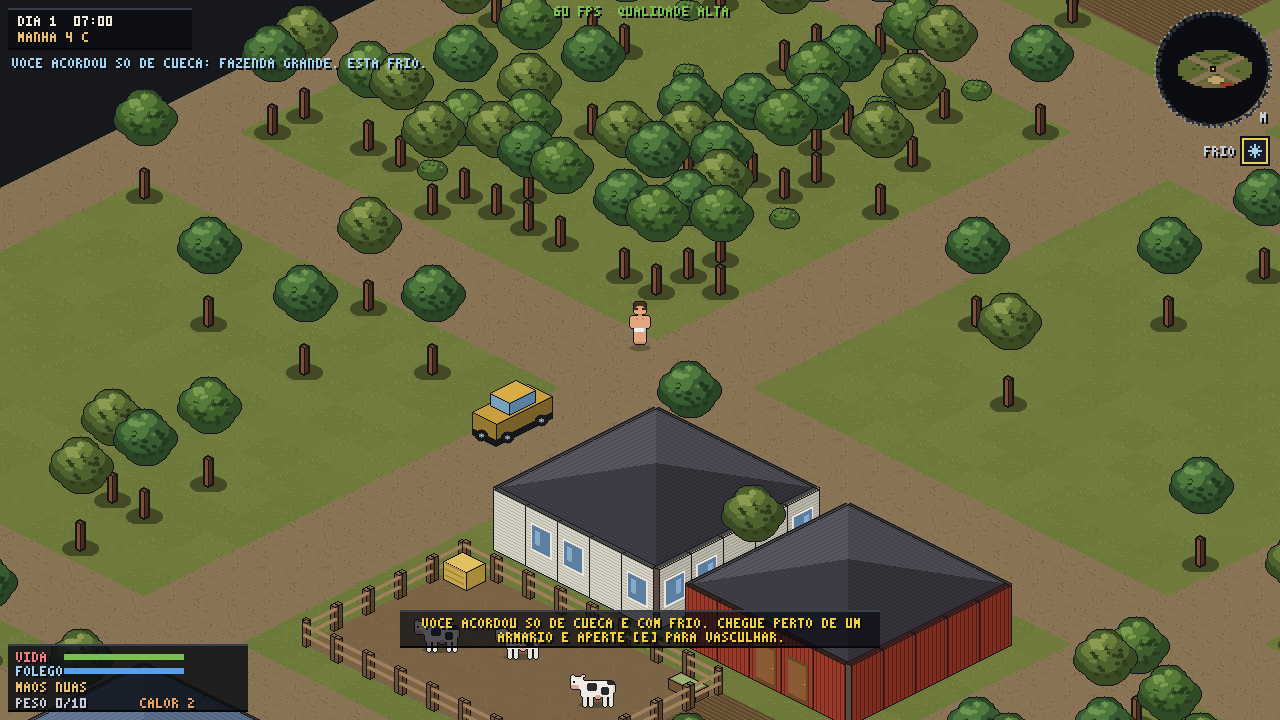
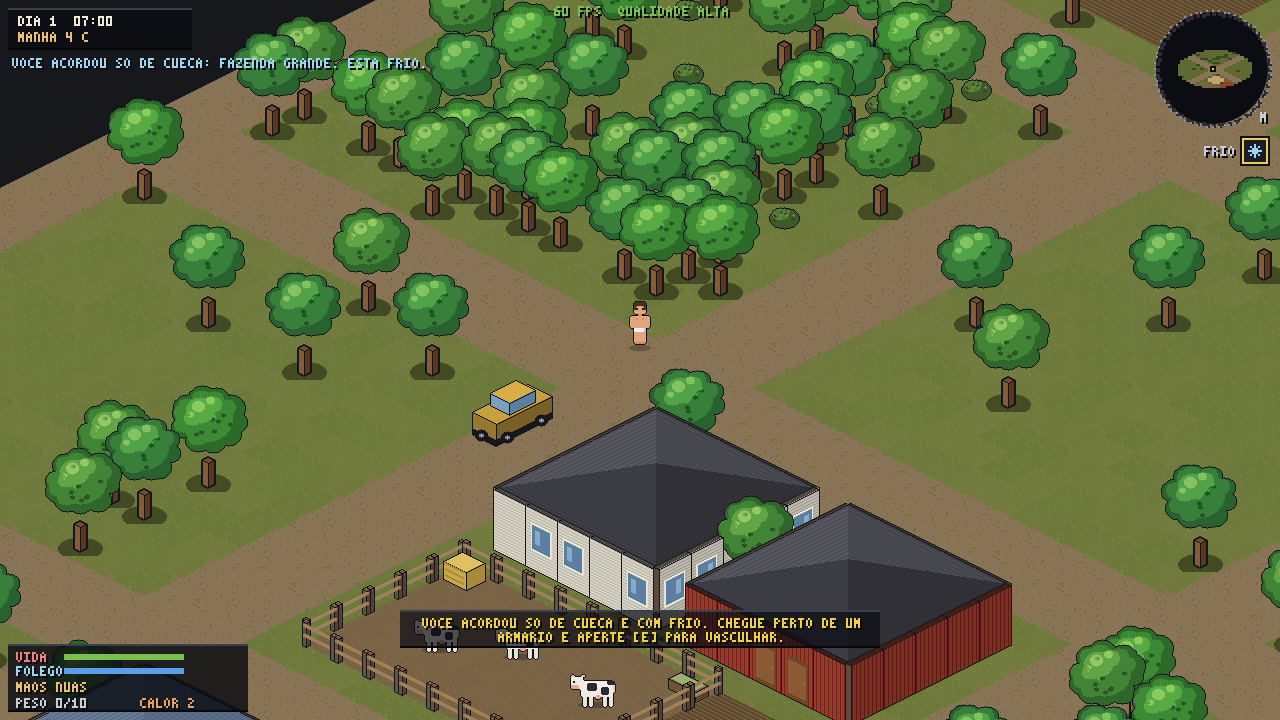
feat: trees drawn like the 🌳 emoji
Every tree now has one big round crown with bumps at the edge and a
short, thick trunk. The greens are brighter, with a shadow low on the
right and light high on the left. The pine variant is gone.

Story: design/game-brief.md (user words of 2026-11-17)

Claude-Session: https://claude.ai/code/session_013o8aeiMDFZKMeVU5bPXT3P

diff --git a/prototypes/zona-morta/js/art.js b/prototypes/zona-morta/js/art.js
@@ -311,37 +311,27 @@ function furnImg(type, v = 0, st = '') {
     case 'remedios': pbox(x, P, 0.2, 0.3, 0.6, 0.4, 20, 0, '#f0f2f4', '#dce0e4', '#c0c6cc'); faceS(x, P, 0.2, 0.7, 0.22, 0.38, 10, 15, '#d83838'); faceS(x, P, 0.2, 0.7, 0.27, 0.33, 8, 17, '#d83838'); break;
     case 'bomba': pbox(x, P, 0.3, 0.3, 0.4, 0.4, 22, 0, '#e8e8e0', '#c9302c', '#9a2420'); faceS(x, P, 0.3, 0.7, 0.08, 0.32, 14, 19, '#22242a'); faceS(x, P, 0.3, 0.7, 0.1, 0.3, 15, 18, st === 'on' ? '#7ae87a' : '#3a5a3a'); { const p = P(0.7, 0.55, 12); pline(x, p[0], p[1], p[0] + 4 * AR, p[1] + 6 * AR, '#22242a'); } break;
     case 'arvore': {
-      // a broadleaf (3 greens) or, one in four, a pine; a trunk you can see, light from the top left
+      // like the 🌳 emoji: one big round leafy crown, cloud-bumped at the edge, on a short thick trunk
       c = mkCanvas(64 * AR, 96 * AR); x = c.getContext('2d'); ox = 32 * AR; oy = 84 * AR; const Q = L(32 * AR, 84 * AR);
-      const pine = v % 4 === 3;
-      pbox(x, Q, 0.44, 0.44, 0.12, 0.12, pine ? 12 : 13, 0, '#6a4428', '#7a5232', '#4a2e1a');
-      const blob = (bx, by, r, col) => pdisc(x, Math.round(bx * AR), Math.round(by * AR), Math.round(r * AR), col, 0.85);
-      const dots = (n, col, cx0, cy0, rr, r0 = 1.2, seed = 7) => { for (let q = 0; q < n; q++) { const a = hash2(q, v, seed) * Math.PI * 2, d = Math.sqrt(hash2(v, q, seed + 2)) * rr; pdisc(x, Math.round((cx0 + Math.cos(a) * d) * AR), Math.round((cy0 + Math.sin(a) * d * 0.8) * AR), Math.round(r0 * AR), col); } };
-      if (pine) {
-        const g = ['#24402a', '#2f5434', '#447048'], top = 84 - 50;
-        // four stacked tiers, each a little cone: dark right half, light left edge
-        for (let t = 0; t < 4; t++) {
-          const ty = top + t * 8, hh = 13, w0 = 6 + t * 2.8;
-          for (let yy = 0; yy <= hh; yy++) {
-            const w = Math.round((yy / hh) * w0 * AR), y2 = (ty + yy) * AR;
-            prect(x, 32 * AR - w, y2, w, AR, g[1]); prect(x, 32 * AR, y2, w + 1, AR, g[0]);
-            if (w > 2) prect(x, 32 * AR - w, y2, Math.max(AR, Math.round(w * 0.35)), AR, g[2]);
-          }
-        }
-        dots(8, '#5a8858', 29, top + 20, 6, 0.6, 3);
-      } else {
-        const gr = [['#2f4a24', '#3e5e2c', '#577a38', '#7a9a4c'], ['#3a4a22', '#4e6230', '#6a7e3c', '#8c9c52'], ['#2a4426', '#385a30', '#4e783c', '#6e9650']][v % 3];
-        const cy = 84 - 31 - (v % 2) * 2;
-        // shadow side (bottom right), body, lit side (top left), then leaf texture
-        blob(33, cy + 3, 12, gr[0]); blob(25, cy + 1, 8, gr[0]); blob(40, cy, 8, gr[0]); blob(32, cy - 7, 9, gr[0]);
-        blob(31, cy - 1, 10, gr[1]); blob(37, cy - 4, 7, gr[1]); blob(25, cy - 3, 7, gr[1]); blob(30, cy - 9, 6, gr[1]);
-        blob(28, cy - 5, 6, gr[2]); blob(34, cy - 9, 4, gr[2]); blob(24, cy - 4, 3.5, gr[2]);
-        blob(27, cy - 8, 2.5, gr[3]); blob(32, cy - 11, 1.5, gr[3]);
-        dots(22, shade(gr[0], 0.82), 34, cy + 2, 10, 1.2, 7); dots(16, gr[2], 29, cy - 4, 8, 1, 11); dots(8, gr[3], 28, cy - 7, 4, 0.8, 13);
-      }
+      const pine = false;
+      // trunk with a little fork into the crown
+      pbox(x, Q, 0.41, 0.41, 0.18, 0.18, 12, 0, '#7a4e2c', '#8a5a34', '#5a3820');
+      const disc = (bx, by, r, col) => pdisc(x, Math.round(bx * AR), Math.round(by * AR), Math.round(r * AR), col, 0.92);
+      const gr = [['#2c6a2a', '#3c8a34', '#58aa44', '#8acc5c'], ['#30662a', '#428436', '#62a446', '#94c862'], ['#28622e', '#38803a', '#52a24a', '#84c460']][v % 3];
+      const cx = 32 + (v % 2), cy = 84 - 24 - (v % 3);
+      // the crown: a round body plus a ring of bumps, darkest low on the right, lit high on the left
+      const bumps = 10, R = 13;
+      disc(cx, cy, R + 1, gr[0]);
+      for (let q = 0; q < bumps; q++) { const a = q / bumps * Math.PI * 2 + hash2(q, v, 5) * 0.4, rr = 5 + hash2(v, q, 6) * 2; disc(cx + Math.cos(a) * R, cy + Math.sin(a) * R * 0.85, rr, gr[0]); }
+      disc(cx - 1, cy - 1, R, gr[1]);
+      for (let q = 0; q < bumps; q++) { const a = q / bumps * Math.PI * 2 + hash2(q, v, 5) * 0.4; if (Math.cos(a) + Math.sin(a) > 0.6) continue; disc(cx - 1 + Math.cos(a) * (R - 1), cy - 1 + Math.sin(a) * (R - 1) * 0.85, 4.5, gr[1]); }
+      disc(cx - 4, cy - 5, 7, gr[2]); disc(cx + 2, cy - 8, 4.5, gr[2]); disc(cx - 8, cy - 1, 4, gr[2]);
+      disc(cx - 5, cy - 7, 3, gr[3]); disc(cx + 1, cy - 10, 2, gr[3]); disc(cx - 9, cy - 3, 1.5, gr[3]);
+      // a few leaf clumps for texture
+      for (let q = 0; q < 14; q++) { const a = hash2(q, v, 21) * Math.PI * 2, d = Math.sqrt(hash2(v, q, 23)) * (R - 2); const lx = cx + Math.cos(a) * d, ly = cy + Math.sin(a) * d * 0.85; disc(lx, ly, 1.2, Math.cos(a) + Math.sin(a) > 0 ? shade(gr[0], 0.85) : gr[2]); }
       outlineCanvas(c);
       // a soft round shadow under it, after the outline so it stays soft
-      x.globalCompositeOperation = 'destination-over'; x.globalAlpha = 0.22; pdisc(x, Q(0.5, 0.5, 0)[0], Q(0.5, 0.5, 0)[1], (pine ? 7 : 9) * AR, '#000000', 0.5); x.globalAlpha = 1; x.globalCompositeOperation = 'source-over';
+      x.globalCompositeOperation = 'destination-over'; x.globalAlpha = 0.22; pdisc(x, Q(0.5, 0.5, 0)[0], Q(0.5, 0.5, 0)[1], 11 * AR, '#000000', 0.5); x.globalAlpha = 1; x.globalCompositeOperation = 'source-over';
       break;
     }
     case 'toco': pbox(x, P, 0.38, 0.38, 0.24, 0.24, 4, 0, '#c8a070', '#6e4a2c', '#4e321c'); break;

diff --git a/design/game-brief.md b/design/game-brief.md
@@ -39,6 +39,7 @@ Nosso jogo está travando
 Temos que fazer com que o jogado nascer em lugares aleatórios
 Temos que melhorar a aparência das árvores temos que reduzir um poucos
 Temos que alimentar mais o nosso mundo está muito pequeno
+Deixa a aparência das árvores assim 🌳
 
 **Pitch:** Você acorda só de cueca, sem nada, numa cidade grande infestada, e vai de casa em casa — condomínios, galpões, fazendas, posto, hospital, biblioteca, corpo de bombeiros — juntando roupa, comida, livros e um machado, barricando a base antes que a horda quebre as janelas; no fim só conta quantos dias você aguentou.
 

diff --git a/prototypes/zona-morta/brief.md b/prototypes/zona-morta/brief.md
@@ -39,6 +39,7 @@ Nosso jogo está travando
 Temos que fazer com que o jogado nascer em lugares aleatórios
 Temos que melhorar a aparência das árvores temos que reduzir um poucos
 Temos que alimentar mais o nosso mundo está muito pequeno
+Deixa a aparência das árvores assim 🌳
 
 **Pitch:** Você acorda só de cueca, sem nada, numa cidade grande infestada, e vai de casa em casa — condomínios, galpões, fazendas, posto, hospital, biblioteca, corpo de bombeiros — juntando roupa, comida, livros e um machado, barricando a base antes que a horda quebre as janelas; no fim só conta quantos dias você aguentou.
 
